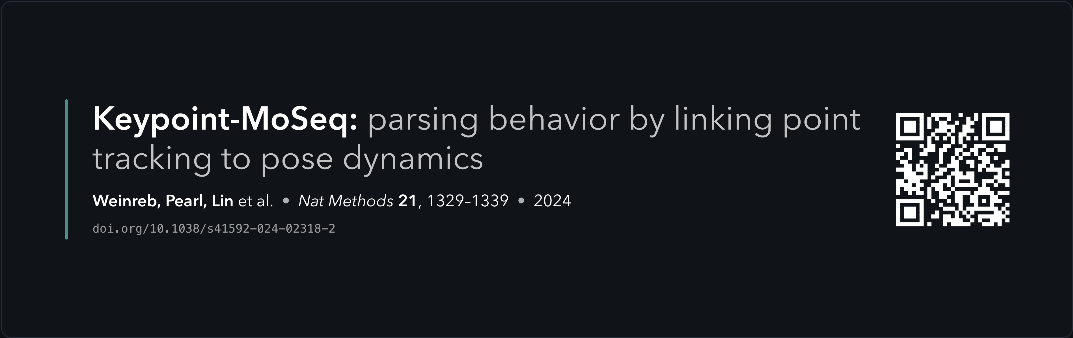
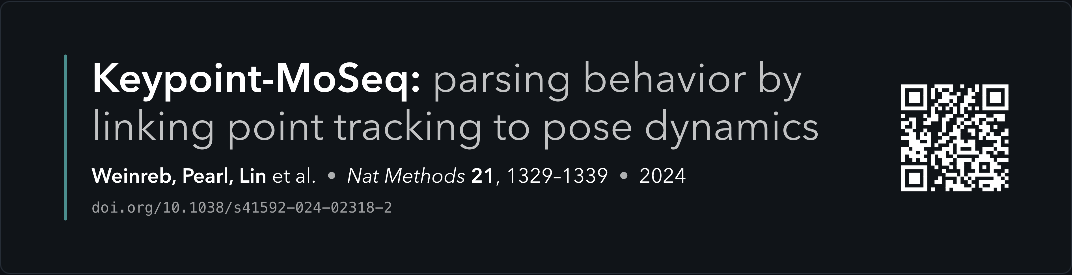
Card hugs its content instead of padding out to a fixed height
Height is now derived from the text block (or the QR, whichever is taller)
plus padding, so short titles no longer leave dead space. Also stop the
browser restoring stale select values, and refresh the README examples.

diff --git a/js/layout.js b/js/layout.js
@@ -6,7 +6,7 @@
 const Layout = (() => {
 
   const PRESETS = {
-    card:  { w: 1800, h: 500,  mode: 'stack', maxLines: 3 },
+    card:  { w: 1800, h: 0,    mode: 'stack', maxLines: 3 },
     strip: { w: 2400, h: 140,  mode: 'strip', maxLines: 1 }
   };
 
@@ -136,13 +136,14 @@ const Layout = (() => {
   }
 
   function buildStack(m, opt, s) {
-    const { W, H, family, ink, dim, prims } = s;
+    const { W, family, ink, dim, prims } = s;
     const padX = Math.round(W * 0.036);
+    const padY = Math.round(W * 0.026);
     const ruleW = opt.showRule ? Math.max(4, Math.round(W * 0.0034)) : 0;
     const ruleGap = opt.showRule ? Math.round(W * 0.024) : 0;
 
     const qrOn = opt.showQr && m.doi;
-    const qrSize = qrOn ? Math.round(Math.min(H * 0.40, W * 0.115)) : 0;
+    const qrSize = qrOn ? Math.round(W * 0.105) : 0;
     const platePad = qrOn && opt.qrPlate ? Math.round(qrSize * 0.10) : 0;
     const qrBox = qrSize + platePad * 2;
     const qrGap = qrOn ? Math.round(W * 0.030) : 0;
@@ -154,8 +155,8 @@ const Layout = (() => {
     const mRuns = metaRuns(m, dim);
     const doiText = opt.showDoi && m.doi ? 'doi.org/' + m.doi : '';
 
-    // Shrink the type until the block fits both the line budget and the height.
-    let titleSize = Math.round(Math.min(H * 0.115, W * 0.042));
+    // Shrink the type until the title fits the line budget.
+    let titleSize = Math.round(W * 0.040);
     let lines, metaSize, doiSize, blockH;
     const minSize = titleSize * 0.55;
 
@@ -164,18 +165,19 @@ const Layout = (() => {
       doiSize = Math.round(titleSize * 0.36);
       lines = wrapRuns(tRuns, titleSize, family, textW);
 
-      const titleH = lines.length * titleSize * 1.20;
-      const metaH = mRuns.length ? metaSize * 1.45 : 0;
-      const doiH = doiText ? doiSize * 1.5 : 0;
-      const gap1 = mRuns.length ? Math.round(titleSize * 0.40) : 0;
-      const gap2 = doiText ? Math.round(titleSize * 0.20) : 0;
+      const titleH = lines.length * titleSize * 1.18;
+      const metaH = mRuns.length ? metaSize * 1.40 : 0;
+      const doiH = doiText ? doiSize * 1.45 : 0;
+      const gap1 = mRuns.length ? Math.round(titleSize * 0.34) : 0;
+      const gap2 = doiText ? Math.round(titleSize * 0.16) : 0;
       blockH = titleH + gap1 + metaH + gap2 + doiH;
 
-      const fitsLines = lines.length <= s.maxLines;
-      const fitsHeight = blockH <= H - Math.round(H * 0.14);
-      if ((fitsLines && fitsHeight) || titleSize <= minSize) break;
+      if (lines.length <= s.maxLines || titleSize <= minSize) break;
       titleSize = Math.round(titleSize * 0.93);
     }
+
+    // The card is only as tall as what it holds — no dead space top or bottom.
+    const H = Math.round(Math.max(blockH, qrOn ? qrBox : 0) + padY * 2);
 
     let y = Math.round((H - blockH) / 2);
     const blockTop = y;
@@ -192,12 +194,12 @@ const Layout = (() => {
         });
         x += measure(run, titleSize, family);
       });
-      y += titleSize * 1.20;
+      y += titleSize * 1.18;
     });
 
     // meta
     if (mRuns.length) {
-      y += Math.round(titleSize * 0.40);
+      y += Math.round(titleSize * 0.34);
       let x = textX;
       const baseline = y + metaSize * 0.92;
       mRuns.forEach(run => {
@@ -208,18 +210,18 @@ const Layout = (() => {
         });
         x += measure(run, metaSize, family);
       });
-      y += metaSize * 1.45;
+      y += metaSize * 1.40;
     }
 
     // doi
     if (doiText) {
-      y += Math.round(titleSize * 0.20);
+      y += Math.round(titleSize * 0.16);
       prims.push({
         t: 'text', x: textX, y: y + doiSize * 0.92, size: doiSize, family,
         weight: 400, italic: false, mono: true,
         fill: ink, opacity: 0.58, text: doiText
       });
-      y += doiSize * 1.5;
+      y += doiSize * 1.45;
     }
 
     const blockBottom = y;

diff --git a/index.html b/index.html
@@ -40,15 +40,15 @@
   <section class="panel">
     <div class="ctl">
       <label for="preset">Shape</label>
-      <select id="preset">
-        <option value="card" selected>Card — 1800×500</option>
+      <select autocomplete="off" id="preset">
+        <option value="card" selected>Card — 1800 wide</option>
       <option value="strip">Footer strip — 2400 wide</option>
     </select>
     </div>
 
     <div class="ctl">
       <label for="theme">Text</label>
-      <select id="theme">
+      <select autocomplete="off" id="theme">
         <option value="light" selected>White — for dark slides</option>
         <option value="dark">Near-black — for light slides</option>
       </select>
@@ -56,7 +56,7 @@
 
     <div class="ctl">
       <label for="typeface">Typeface</label>
-      <select id="typeface">
+      <select autocomplete="off" id="typeface">
         <option value="sans" selected>Humanist sans</option>
         <option value="serif">Serif</option>
         <option value="grotesk">Neo-grotesque</option>

diff --git a/README.md b/README.md
@@ -20,8 +20,10 @@ links straight to the DOI.
 - Looks up metadata from **Crossref**, falling back to **DataCite** and
   `doi.org` content negotiation.
 - Renders two shapes:
-  - **Card** — 1800×500, for a title slide or a section divider.
-  - **Footer strip** — 2400×140, for a thin credit along the bottom of a slide.
+  - **Card** — 1800 px wide, for a title slide or a section divider.
+  - **Footer strip** — a thin credit for the bottom of a slide.
+
+  Both are sized to their content, so there is no dead space around the text.
 - Exports **PNG** (at 2×, so it stays crisp on a projector) or **SVG**. The
   preview backdrop is what you get: transparent, dark or light.
 - Everything runs in the browser. Nothing is uploaded, no build step, no
